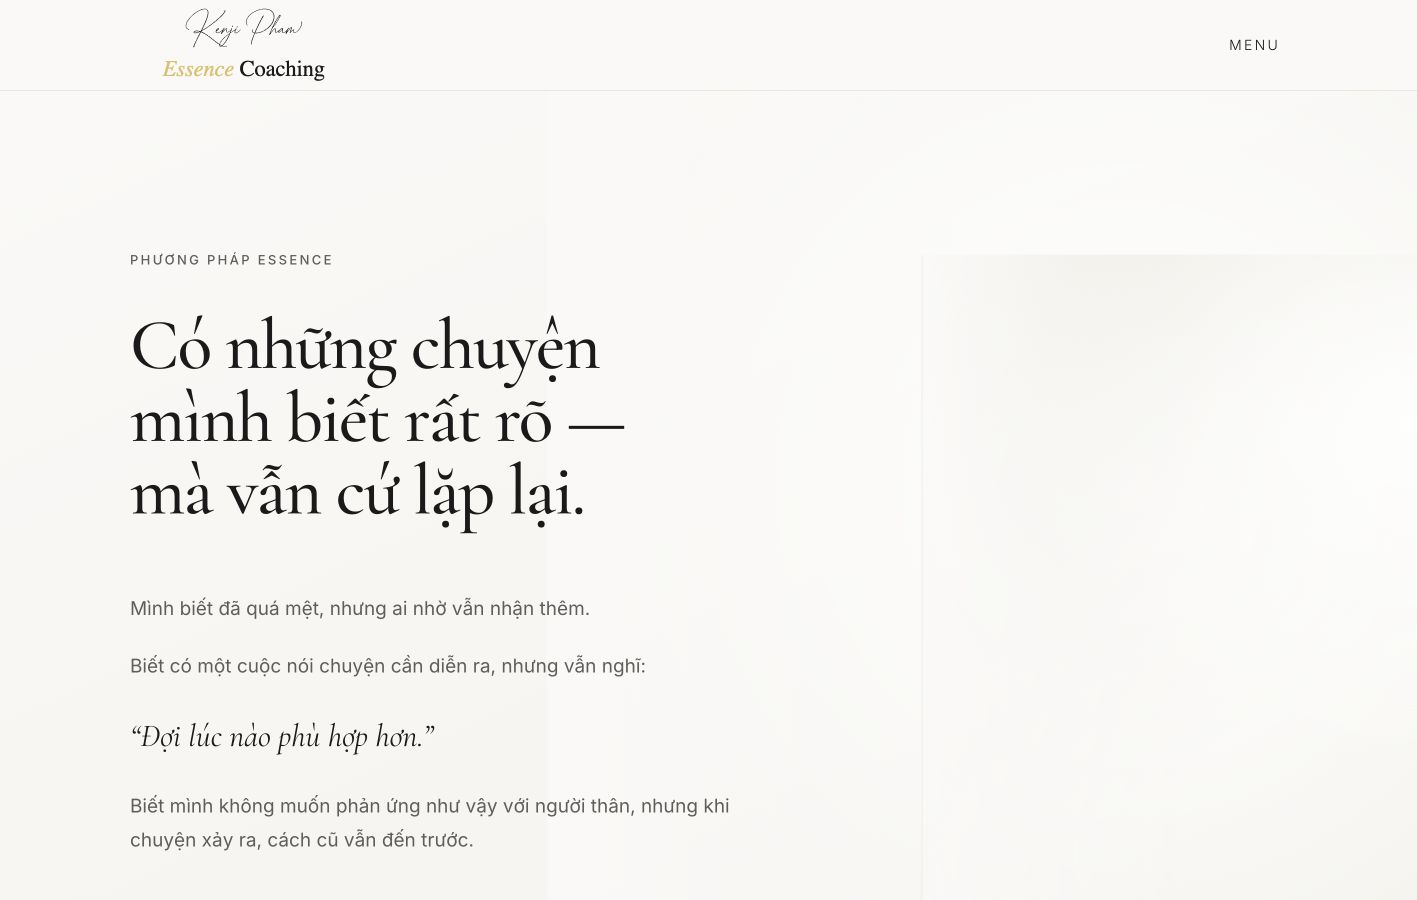
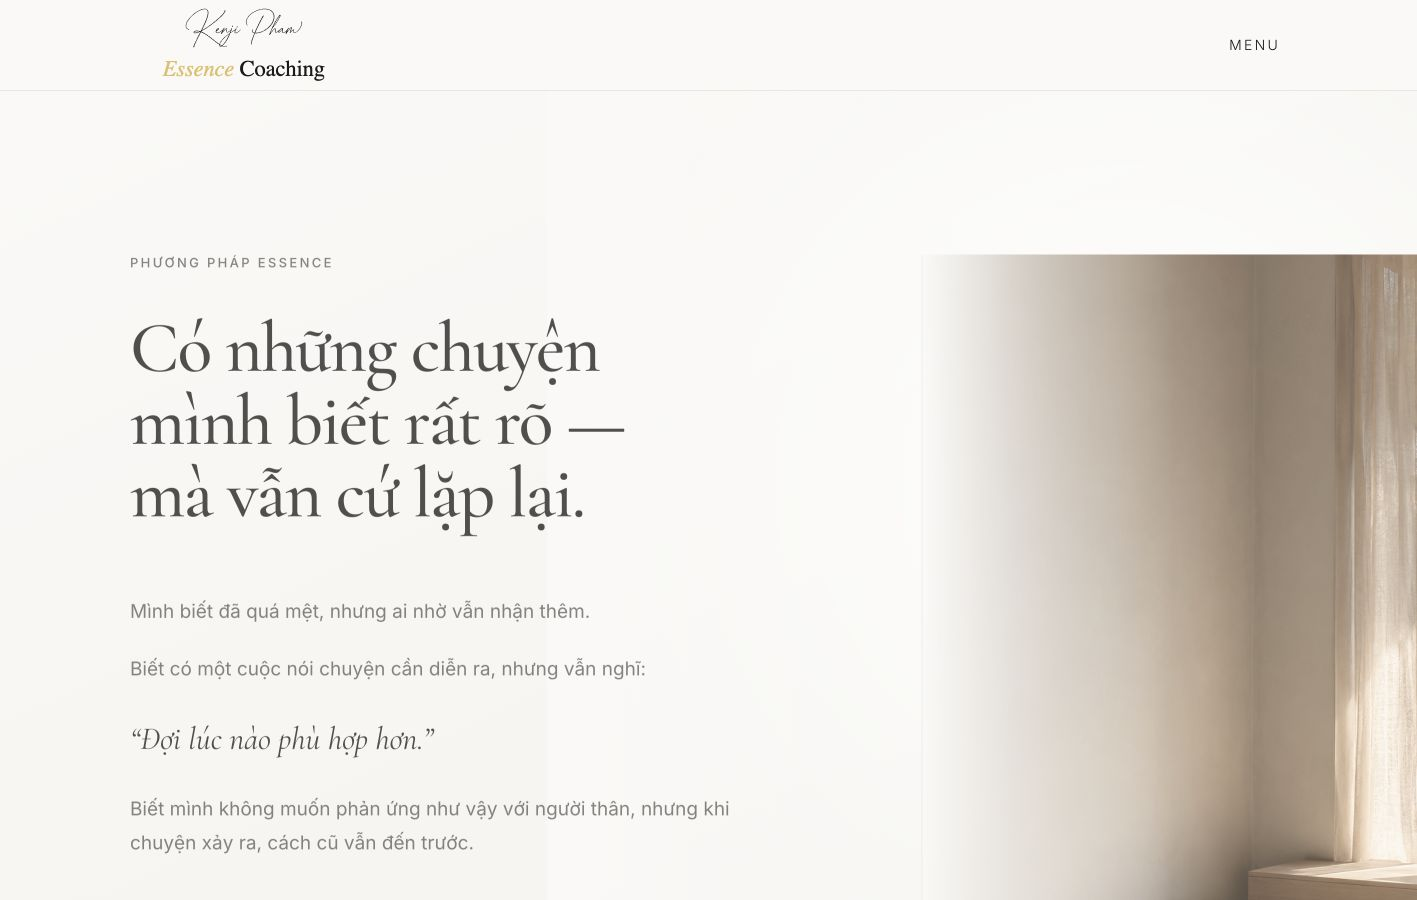
feat: add phuong-phap final imagery

diff --git a/src/styles/phuong-phap.module.css b/src/styles/phuong-phap.module.css
@@ -3,7 +3,7 @@
 }
 
 .heroSurface {
-  --phuong-phap-hero-field-image: none;
+  --phuong-phap-hero-field-image: url("/images/phuong-phap/01-hero-atmosphere.png");
   position: relative;
   isolation: isolate;
   overflow: hidden;
@@ -73,7 +73,7 @@
 
 .chillAtmosphere,
 .realityAtmosphere {
-  --phuong-phap-chill-field-image: none;
+  --phuong-phap-chill-field-image: url("/images/phuong-phap/02-chill-atmosphere.png");
   position: relative;
   isolation: isolate;
   overflow: hidden;
@@ -84,10 +84,16 @@
   bottom: 7%;
   left: max(-8vw, -7rem);
   width: min(46vw, 39rem);
-  opacity: 0.64;
+  opacity: 0.58;
   border-right: 1px solid var(--essence-border-light-2026);
   background-image:
-    linear-gradient(90deg, var(--essence-cream-deep-2026) 0%, transparent 72%),
+    linear-gradient(
+      90deg,
+      var(--essence-cream-2026) 0%,
+      var(--essence-cream-2026) 54%,
+      color-mix(in srgb, var(--essence-cream-2026) 78%, transparent) 74%,
+      transparent 100%
+    ),
     var(--phuong-phap-chill-field-image),
     radial-gradient(ellipse 84% 52% at 76% 14%, var(--essence-white-2026) 0%, transparent 70%),
     linear-gradient(168deg, transparent 0%, color-mix(in srgb, var(--essence-text-primary-2026) 6%, transparent) 100%);
@@ -115,17 +121,23 @@
 }
 
 .realityAtmosphere {
-  --phuong-phap-reality-field-image: none;
+  --phuong-phap-reality-field-image: url("/images/phuong-phap/03-hien-thuc-atmosphere.png");
 }
 
 .realityAtmosphere::before {
   top: 7%;
   bottom: 6%;
   left: max(-8vw, -7rem);
-  width: min(55vw, 48rem);
-  opacity: 0.68;
+  width: min(48vw, 42rem);
+  opacity: 0.58;
   background-image:
-    linear-gradient(90deg, var(--essence-cream-2026) 0%, transparent 74%),
+    linear-gradient(
+      90deg,
+      var(--essence-cream-2026) 0%,
+      var(--essence-cream-2026) 58%,
+      color-mix(in srgb, var(--essence-cream-2026) 78%, transparent) 78%,
+      transparent 100%
+    ),
     var(--phuong-phap-reality-field-image),
     radial-gradient(ellipse 90% 72% at 68% 22%, var(--essence-white-2026) 0%, transparent 70%),
     linear-gradient(135deg, var(--essence-cream-deep-2026) 0%, transparent 64%);

diff --git a/src/pages/phuong-phap.tsx b/src/pages/phuong-phap.tsx
@@ -95,18 +95,24 @@ const doors = [
     title: "Người đứng sau ESSENCE",
     copy: "Điều gì đã hình thành cách tôi nhìn, điều tôi tin trong công việc này — và vì sao tôi chọn đứng bên cạnh thay vì quyết định thay bạn.",
     href: "/ve-kenji",
+    image: "/images/phuong-phap/04-door-kenji.png",
+    imageAlt: "Kenji Phạm tại Essence Coaching",
     label: "Gặp Kenji →",
   },
   {
     title: "Câu chuyện của chính bạn",
     copy: "Bạn có thể đã nhận ra vài vòng lặp, nhưng vẫn chưa rõ điều gì đang thật sự dẫn nhịp đời sống của mình.",
     href: "/ban-sac-cua-ban",
+    image: "/images/phuong-phap/05-door-ban.png",
+    imageAlt: "Không gian yên tĩnh bên khung cửa",
     label: "Tôi muốn nhìn về phía chính mình →",
   },
   {
     title: "Câu chuyện của con",
     copy: "Một đứa trẻ không cần thêm một chiếc nhãn để được hiểu nhanh hơn.\n\nĐôi khi, điều cần thiết hơn là nhìn đủ gần để nhận ra điều đang thật sự diễn ra khi con lớn lên.",
     href: "/ban-sac-cua-con",
+    image: "/images/phuong-phap/06-door-con.png",
+    imageAlt: "Góc không gian dành cho trẻ",
     label: "Tôi đang muốn hiểu con rõ hơn →",
   },
 ];
@@ -636,7 +642,7 @@ export default function PhuongPhapPage() {
                     data-phuong-phap-reveal
                     key={door.href}
                   >
-                    <PhuongPhapImageSlot ratio="portrait" />
+                    <PhuongPhapImageSlot alt={door.imageAlt} ratio="portrait" src={door.image} />
                     <EssenceAnchor as="h3" level="h3" className="mt-8">
                       {door.title}
                     </EssenceAnchor>

diff --git a/src/components/phuong-phap/PhuongPhapImageSlot.tsx b/src/components/phuong-phap/PhuongPhapImageSlot.tsx
@@ -1,25 +1,38 @@
+import Image from "next/image";
 import { cn } from "@/lib/utils";
 import styles from "@/styles/phuong-phap.module.css";
 
 type Props = {
+  alt?: string;
   className?: string;
   ratio?: "portrait" | "editorial";
+  src?: string;
 };
 
-// Intentional image-ready surface. Production imagery can replace the inner
-// plane without changing the surrounding scene geometry or reading order.
-export function PhuongPhapImageSlot({ className, ratio = "portrait" }: Props) {
+export function PhuongPhapImageSlot({ alt = "", className, ratio = "portrait", src }: Props) {
   return (
     <div
-      aria-hidden="true"
+      aria-hidden={src ? undefined : true}
       className={cn(
         styles.imageSlot,
         ratio === "portrait" ? "aspect-[4/5]" : "aspect-[3/4]",
         className
       )}
     >
-      <span className={styles.imageSlotLight} />
-      <span className={styles.imageSlotLine} />
+      {src ? (
+        <Image
+          alt={alt}
+          className="object-cover"
+          fill
+          sizes="(min-width: 1024px) 33vw, 100vw"
+          src={src}
+        />
+      ) : (
+        <>
+          <span className={styles.imageSlotLight} />
+          <span className={styles.imageSlotLine} />
+        </>
+      )}
     </div>
   );
 }
